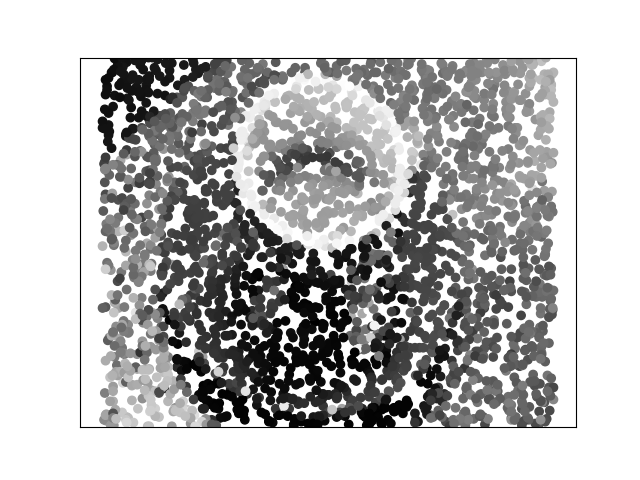
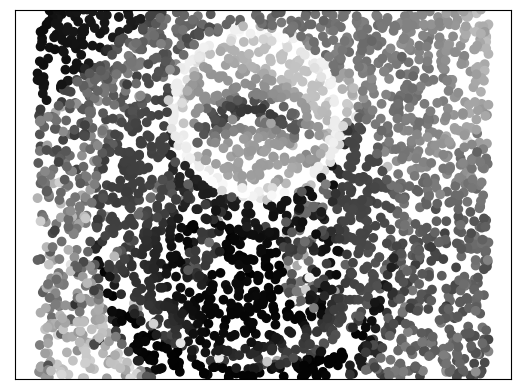
this is the way

diff --git a/Mandetory/Task4/Point_cloud_image_filtering.py b/Mandetory/Task4/Point_cloud_image_filtering.py
@@ -7,7 +7,7 @@ import scipy.ndimage as ndi
 import scipy as sc
 from scipy.signal import wiener
 
-#plt.style.use('ggplot')
+plt.style.use('ggplot')
 
 """  ------------------ 1. Load the image ------------------ """
 
@@ -17,15 +17,37 @@ from scipy.signal import wiener
 # load the .npz file
 coffe = cv2.imread('Mandetory\Supplementary data\coffee.png', 0)
 point_cloud = np.load('Mandetory\Supplementary data\point_cloud.npz')
+laplacian = np.load('Mandetory\Supplementary data\point_cloud_Laplacian.npz')
 
 # extract the data  
 X = point_cloud['X']
 Z = point_cloud['Z']
 
+L = laplacian['L']
+
 plt.scatter(X[:,1], X[:,0], c=Z, cmap='gray')
 plt.ylim(400, 0)
 plt.xticks([]), plt.yticks([])
+plt.show() 
+
+
+""" ------------------ 2. histogram for image ------------------ """
+
+hist, bins = np.histogram(Z, bins=100)
+
+plt.bar(bins[:-1], hist, width=0.008, color='black')
+plt.title('Histogram of the point cloud intensity values')
 plt.show()
 
+"""  ------------------ 3. Graph Fourier mode ------------------ """
+
+eigenvalues, eigenvectors = np.linalg.eig(L)
 
 
+# ordering the eigenvalues 
+eigenvalues = np.sort(eigenvalues)
+
+# plotting the eigenvalues
+plt.plot(eigenvalues, color = 'black')
+plt.title('Eigenvalues of the Laplacian')
+plt.show()
